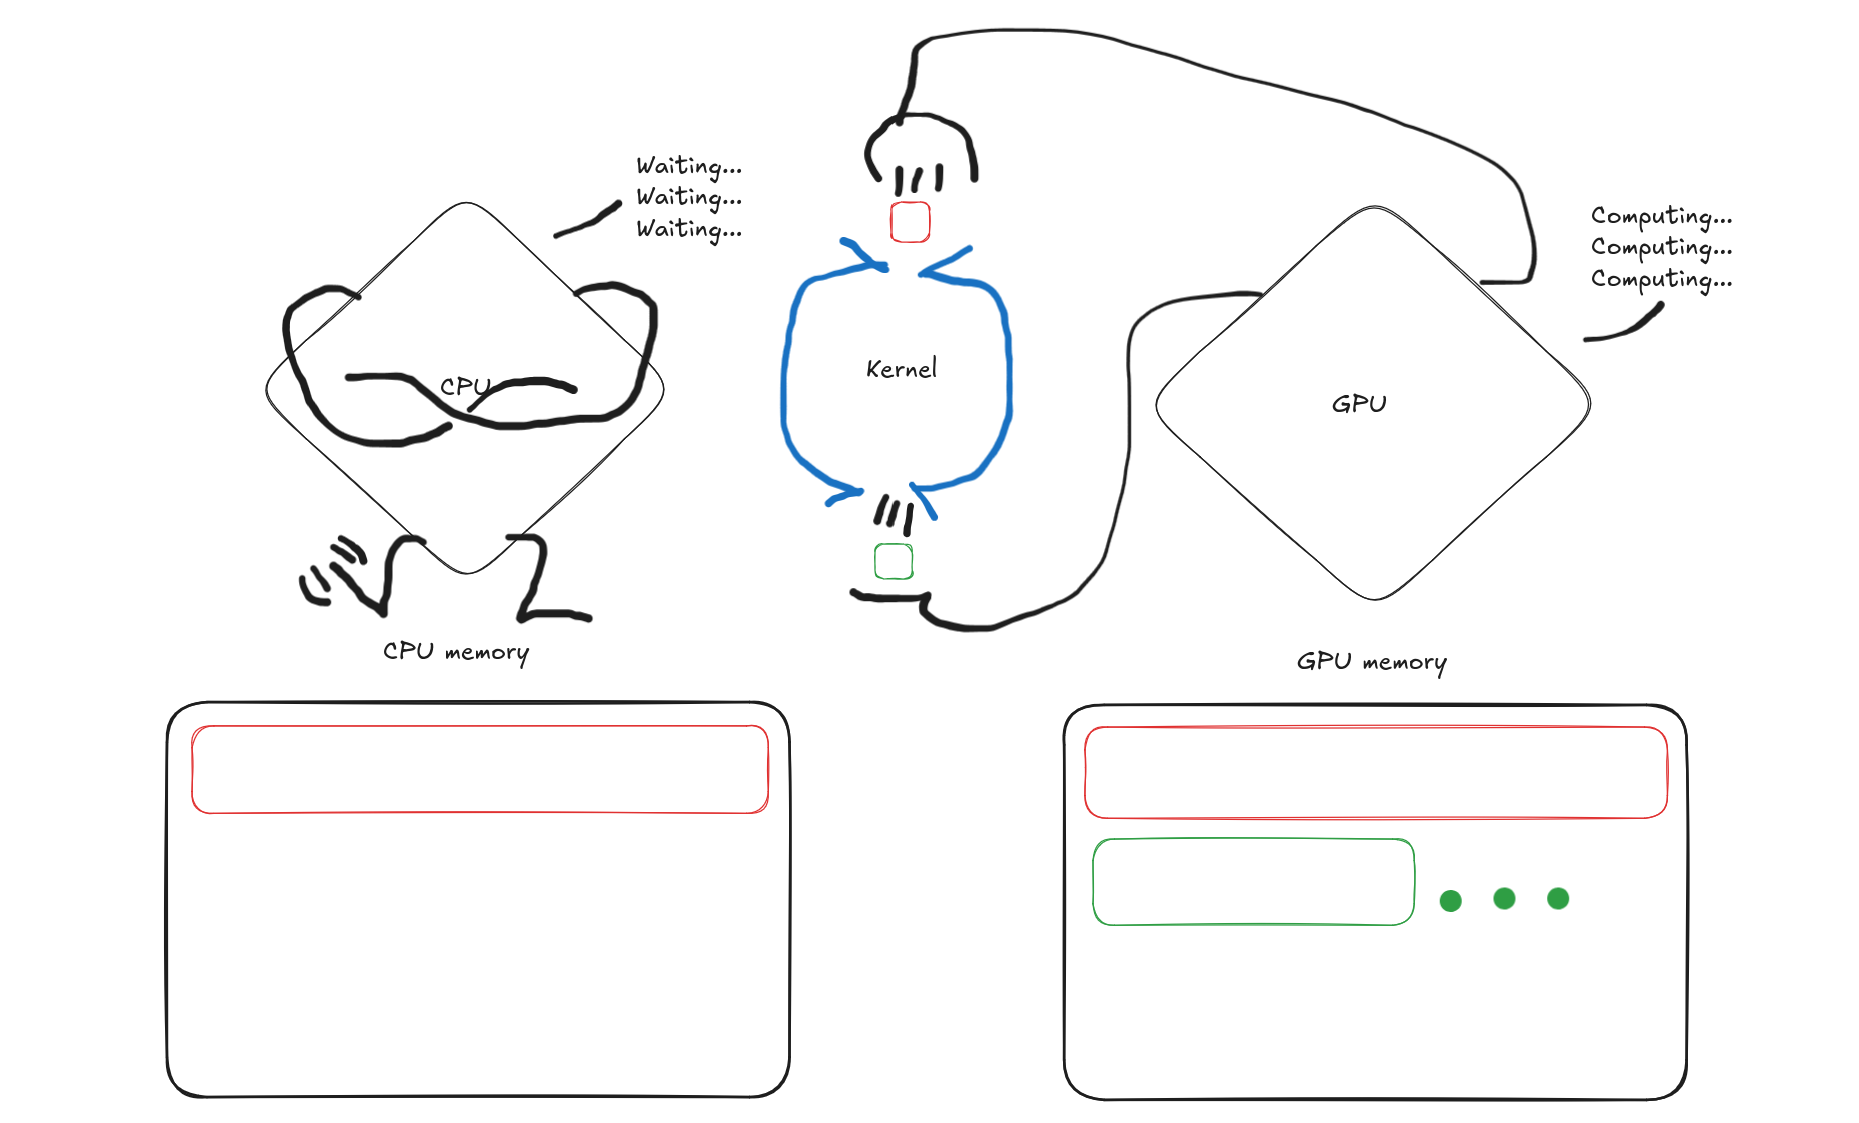
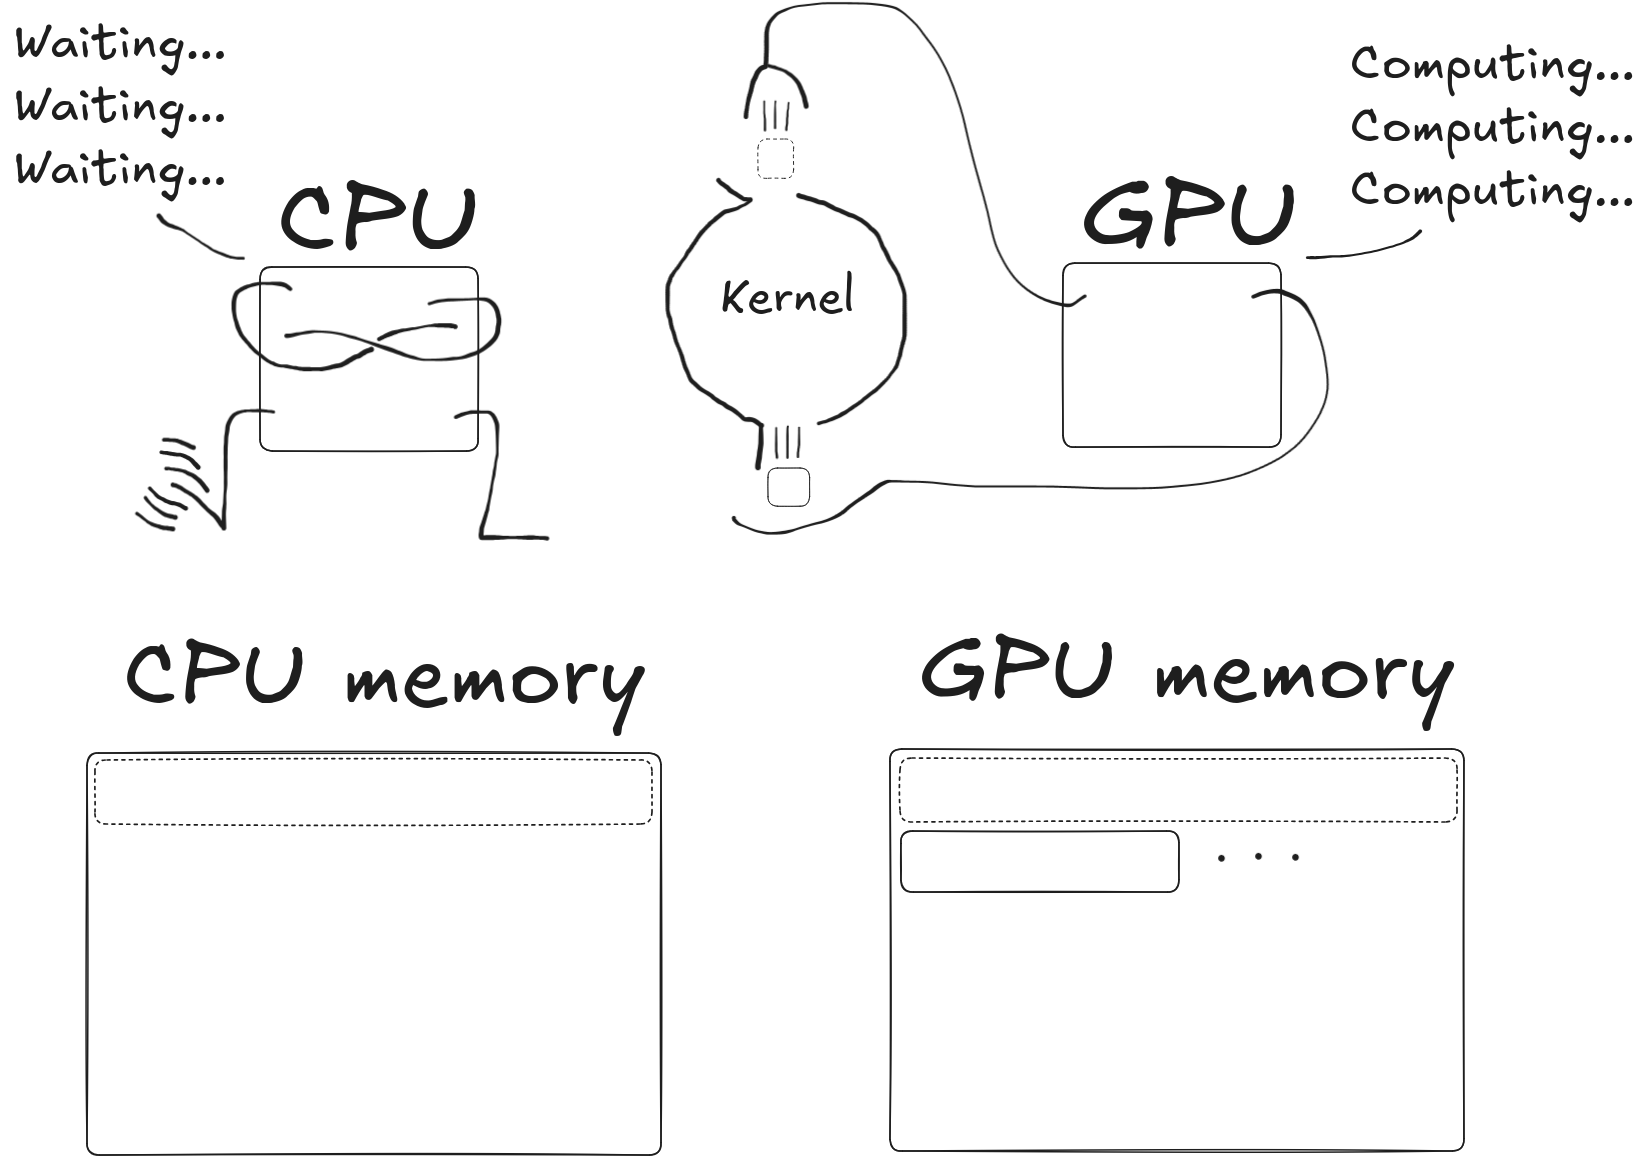
Update introduction based on feedback

diff --git a/docs/01-introduction.md b/docs/01-introduction.md
@@ -18,7 +18,7 @@ We will start simple and slowly add accuracy and complexity
 
 GPU is a processor with a dedicated memory area
 
-![](img/gpu-vs-cpu-level0.png){.center width=60%}
+![](img/gpu_is_a_separate_processor_with_own_memory.png){.center width=50%}
 
 ::: notes
 
@@ -30,31 +30,61 @@ On the right we have the GPU with it's dedicated memory
 
 # How do I use the GPU?
 
+:::::: {.columns}
+::: {.column width="50%"}
 To use it, you have to
 
+1. Copy memory from CPU to GPU
+:::
+::: {.column width="50%"}
+![](img/copy_h2d.png){.center width=100%}
+:::
+::::::
+
 # How do I use the GPU?
+
+:::::: {.columns}
+::: {.column width="50%"}
+To use it, you have to
 
 1. Copy memory from CPU to GPU
-
-![](img/copy_h2d.png){.center width=60%}
-
-# How do I use the GPU?
-
 2. Tell the GPU what to do with that data
-
-![](img/do_this_computation.png){.center width=60%}
+:::
+::: {.column width="50%"}
+![](img/do_this_computation.png){.center width=100%}
+:::
+::::::
 
 # How do I use the GPU?
 
+:::::: {.columns}
+::: {.column width="50%"}
+To use it, you have to
+
+1. Copy memory from CPU to GPU
+2. Tell the GPU what to do with that data
 3. Wait for the GPU to finish doing what you told it to do
-
-![](img/cpu_waits_on_gpu.png){.center width=60%}
+:::
+::: {.column width="50%"}
+![](img/cpu_waits_on_gpu.png){.center width=100%}
+:::
+::::::
 
 # How do I use the GPU?
 
-4. Copy memory from GPU back to the CPU
+:::::: {.columns}
+::: {.column width="50%"}
+To use it, you have to
 
-![](img/copy_d2h.png){.center width=60%}
+1. Copy memory from CPU to GPU
+2. Tell the GPU what to do with that data
+3. Wait for the GPU to finish doing what you told it to do
+4. Copy memory from GPU back to the CPU
+:::
+::: {.column width="50%"}
+![](img/copy_d2h.png){.center width=100%}
+:::
+::::::
 
 # Why?
 
@@ -538,7 +568,7 @@ The point of view of a single thread is "I'm going to take this single value fro
 ::::::::: {.columns}
 :::::: {.column width="40%"}
 - Context: Execute some code over the size of the arrays using a douple loop
-- Single thread POV: Perform addition of two elements $c_{ij} = a_{ij} + b_{ij}$
+- Single thread point of view: Perform addition of two elements $c_{ij} = a_{ij} + b_{ij}$
 ::::::
 :::::: {.column width="60%"}
 ```cpp
@@ -853,7 +883,7 @@ Each SIMD unit/SMSP executes a single instruction per cycle, doing this for all 
 - useful when you have a lot of data
 - consists of tens or hundreds of simple processors, with multiple vector units per processor
 - 1-2 orders of magnitude more instruction per cycle compared to CPUs
-- POV of a single thread
+- point of view of a single thread
 - a grid of (blocks of) threads
 - grid <--> device
 - block <--> SM/CU
@@ -862,7 +892,7 @@ Each SIMD unit/SMSP executes a single instruction per cycle, doing this for all 
 :::
 </small>
 
-# Have we learned anything?
+# What have we learned?
 
 ::: notes
 Let's see if we've learned something.
@@ -871,7 +901,7 @@ Say, we have the following GPU.
 :::
 ![](img/model_gpu.png){.center width=65%}
 
-# Have we learned anything?
+# What have we learned?
 
 ::::::::: {.columns}
 :::::: {.column width="40%"}
@@ -890,7 +920,7 @@ How many grids do we need, at least, to saturate the entire GPU?
 ::::::
 :::::::::
 
-# Have we learned anything?
+# What have we learned?
 
 ::: notes
 A grid maps to a device, so we need at least 1 grid to saturate the entire GPU.
@@ -914,7 +944,7 @@ How many grids do we need, at least, to saturate the entire GPU?
 ::::::
 :::::::::
 
-# Have we learned anything?
+# What have we learned?
 
 ::::::::: {.columns}
 :::::: {.column width="40%"}
@@ -933,7 +963,7 @@ How many blocks do we need, at least, to saturate the entire GPU?
 ::::::
 :::::::::
 
-# Have we learned anything?
+# What have we learned?
 
 ::: notes
 A block maps to a CU/SM, so we need at least 8 blocks, as there are 8 CUs/SMs.
@@ -957,7 +987,7 @@ How many blocks do we need, at least, to saturate the entire GPU?
 ::::::
 :::::::::
 
-# Have we learned anything?
+# What have we learned?
 
 ::::::::: {.columns}
 :::::: {.column width="40%"}
@@ -976,7 +1006,7 @@ How many warps/wavefronts do we need, at least, to saturate the entire GPU?
 ::::::
 :::::::::
 
-# Have we learned anything?
+# What have we learned?
 
 ::: notes
 A warp/wavefront maps to a SIMD unit/SMSP of a CU/SM, so we need at least 4 warps/wavefronts per block. So in total 32, as there are 8 CUs/SMs.
@@ -998,7 +1028,7 @@ How many warps/wavefronts do we need, at least, to saturate the entire GPU?
 ::::::
 :::::::::
 
-# Have we learned anything?
+# What have we learned?
 
 ::::::::: {.columns}
 :::::: {.column width="40%"}
@@ -1018,7 +1048,7 @@ If we assume a warp size of 32 threads, how many threads per block do we need to
 ::::::
 :::::::::
 
-# Have we learned anything?
+# What have we learned?
 
 ::: notes
 With 32 threads per warp and 4 warps per CU/SM, we need at least 128 threads per block.
@@ -1041,7 +1071,7 @@ If we assume a warp size of 32 threads, how many threads per block do we need to
 ::::::
 :::::::::
 
-# Have we learned anything?
+# What have we learned?
 
 ::::::::: {.columns}
 :::::: {.column width="40%"}
@@ -1061,7 +1091,7 @@ If we assume a warp size of 32 threads and a single grid, how many threads per g
 ::::::
 :::::::::
 
-# Have we learned anything?
+# What have we learned?
 
 ::: notes
 Extending the previous: at least 128 threads per block, and we need at least 8 blocks. So in total at least 1024 threads per grid, if we run only a single grid on the GPU.
@@ -1084,7 +1114,7 @@ If we assume a warp size of 32 threads and a single grid, how many threads per g
 ::::::
 :::::::::
 
-# Have we learned anything?
+# What have we learned?
 
 ::::::::: {.columns}
 :::::: {.column width="40%"}
@@ -1103,7 +1133,7 @@ If we assume a warp size of 32 threads and we define the block size to be 1024 t
 ::::::
 :::::::::
 
-# Have we learned anything?
+# What have we learned?
 
 ::: notes
 Blocks are mapped to the CUs/SMs and we have 8 of them, so regardless of the size of the block or the warp, we need 8 blocks at least.
